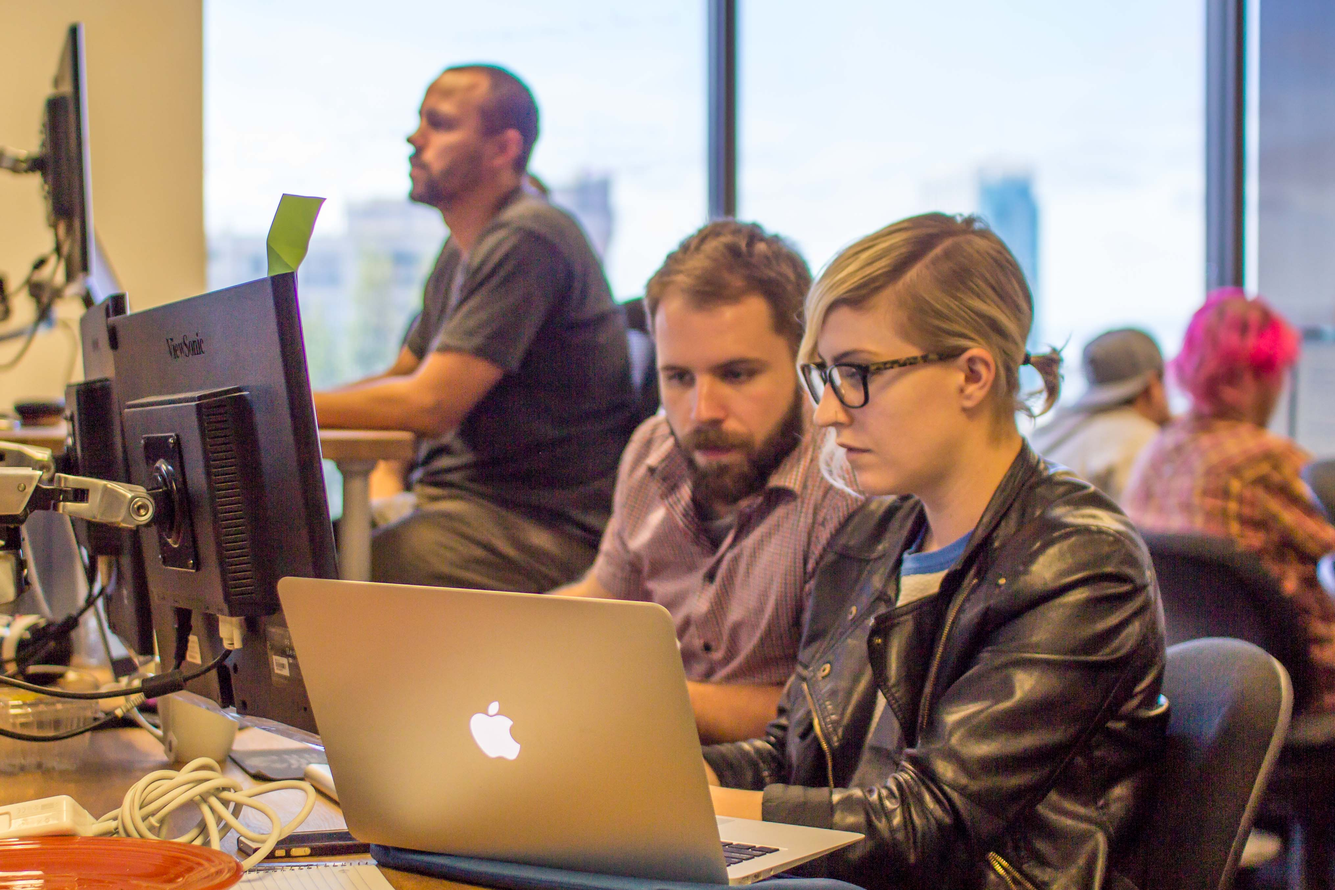
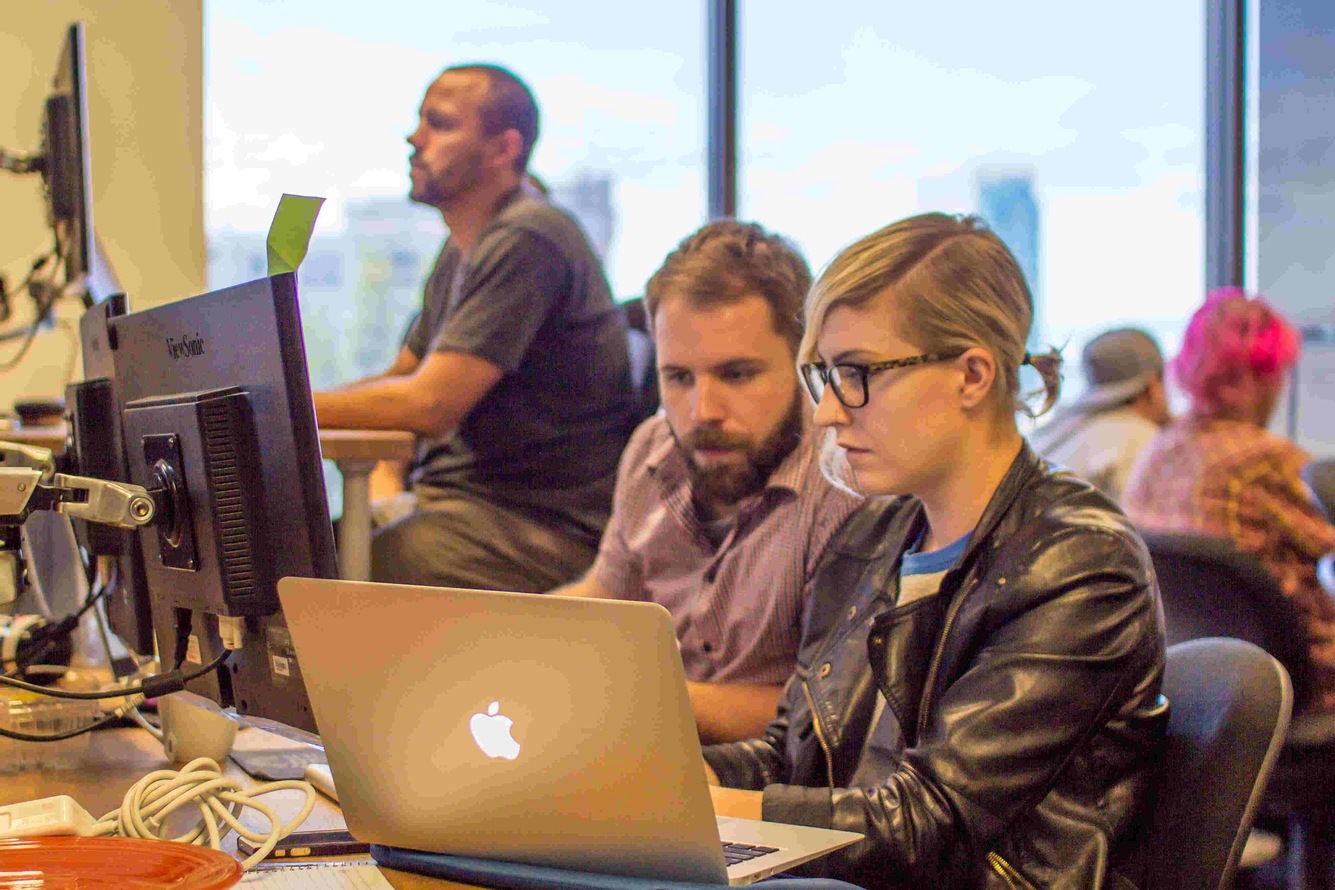
perf

Changed region(s): [[0.7445, 0.9616, 0.7755, 1.0]]

diff --git a/static/style.scss b/static/style.scss
@@ -125,6 +125,15 @@ nav.navbar {
             top: 99px;
             padding: 20px;
             border-bottom: 5px solid $primary;
+
+            .nav-item {
+                font-size: 24px;
+            }
+
+            .dropdown-item {
+                white-space: normal;
+            }
+
             .nav-item+.nav-item {
                 margin-left: 0;
             }
@@ -153,6 +162,7 @@ nav.navbar {
     .nav-item {
         .nav-link {
             cursor: pointer;
+            line-height: 2em;
         }
         font-size: 16px;
         font-weight: 400;
@@ -160,7 +170,11 @@ nav.navbar {
         font-style: normal;
         letter-spacing: 3px;
         text-decoration: none;
-        line-height: 2em;
+
+        .dropdown-item {
+            margin-top: 0.5rem;
+            margin-bottom: 0.5rem;
+        }
     }
 }
 

diff --git a/layouts/partials/head.html b/layouts/partials/head.html
@@ -13,9 +13,6 @@
 <script defer src="https://cdnjs.cloudflare.com/ajax/libs/popper.js/1.12.3/umd/popper.min.js" integrity="sha384-vFJXuSJphROIrBnz7yo7oB41mKfc8JzQZiCq4NCceLEaO4IHwicKwpJf9c9IpFgh" crossorigin="anonymous"></script>
 <script defer src="https://maxcdn.bootstrapcdn.com/bootstrap/4.0.0-beta.2/js/bootstrap.min.js" integrity="sha384-alpBpkh1PFOepccYVYDB4do5UnbKysX5WZXm3XxPqe5iKTfUKjNkCk9SaVuEZflJ" crossorigin="anonymous"></script>
 
-<script defer src="https://use.fontawesome.com/releases/v5.0.2/js/all.js"></script>
-
-<link rel="stylesheet" href="https://maxcdn.bootstrapcdn.com/font-awesome/4.7.0/css/font-awesome.min.css">
 <link href="https://fonts.googleapis.com/css?family=Open+Sans|Quicksand" rel="stylesheet">
 <link rel="stylesheet" href="/dist/style.css">
 

diff --git a/layouts/courses/single.html b/layouts/courses/single.html
@@ -1,6 +1,9 @@
 {{ define "styles" }}
 <link rel="stylesheet" href="/dist/page.css">
-<link rel="stylesheet" href="/dist/{{ .Params.styles}}"> {{ end }} {{ define "header" }} {{ partial "navbar.html" . }} {{ end }} {{ define "main" }}
+<link rel="stylesheet" href="/dist/{{ .Params.styles}}"> 
+{{ end }} 
+
+{{ define "header" }} {{ partial "navbar.html" . }} {{ end }} {{ define "main" }}
 
 <div class="jumbotron jumbotron-fluid" id="page-header">
 
@@ -73,3 +76,7 @@
 </div>
 
 {{ end }}
+
+{{ define "scripts" }}
+<script defer src="https://use.fontawesome.com/releases/v5.0.2/js/all.js"></script>
+{{ end}}

diff --git a/static/main.js b/static/main.js
@@ -83,10 +83,19 @@ function setUpNav() {
 
 $(function () {
 
+  var w = window,
+    d = document,
+    e = d.documentElement,
+    g = d.getElementsByTagName('body')[0],
+    x = w.innerWidth || e.clientWidth || g.clientWidth,
+    y = w.innerHeight || e.clientHeight || g.clientHeight;
+
   window.sr = ScrollReveal();
 
-  if (ScrollReveal.isSupported() && window.scrollY < 200) {
+  if (x > 600 && ScrollReveal.isSupported() && window.scrollY < 200) {
     document.documentElement.classList.add('revealing');
+  } else {
+    sr = undefined;
   }
   setUpNav();
 });

diff --git a/static/home.js b/static/home.js
@@ -7,9 +7,10 @@ $(function () {
 function setUpScreenReveals() {
 
   var scrollOpts = {
-    duration: 800,
+    duration: 1000,
     scale: 1,
-    distance: '30px'
+    distance: '20px',
+    mobile: false,
   };
   var reveals = [
     '#manifesto',
@@ -19,7 +20,9 @@ function setUpScreenReveals() {
     '#careers'
   ];
 
-  reveals.forEach(function (r) {
-    sr.reveal(r + ' .sr', scrollOpts, 100);
-  });
+  if (sr && ScrollReveal.isSupported()) {
+    reveals.forEach(function (r) {
+      sr.reveal(r + ' .sr', scrollOpts, 100);
+    });
+  }
 }

diff --git a/static/home.scss b/static/home.scss
@@ -72,7 +72,7 @@ section#intro {
 
   #bg {
     @extend .full-abs;
-    background-image: url("/img/dev_camp.jpg");
+    background-image: url("/img/dev_camp_compressed.jpg");
     background-size: cover;
     background-position: top;
     filter: brightness(0.4);
